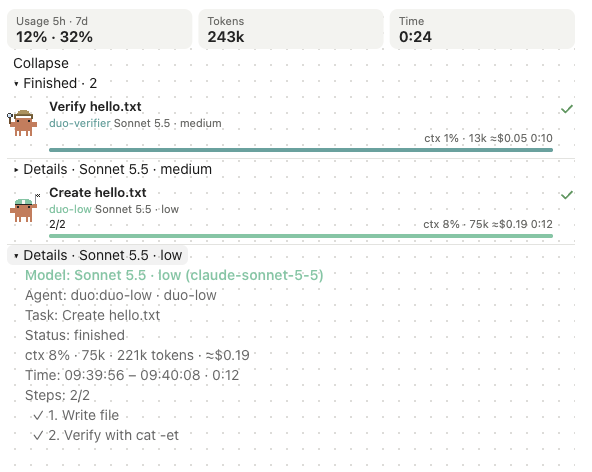
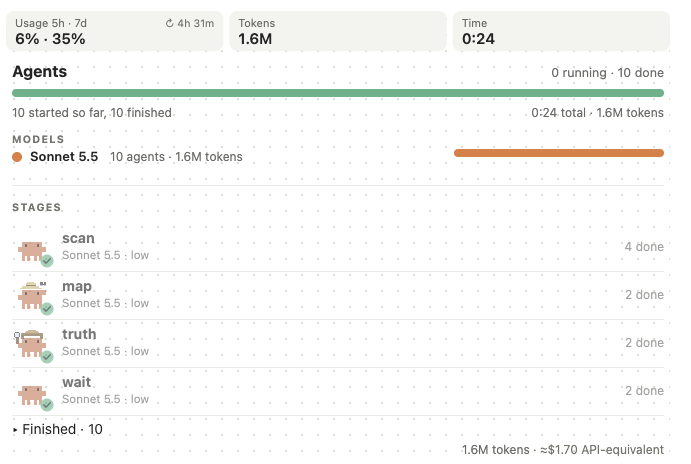
README: new panel screenshot (grouped view with the usage tile and its reset countdown)

diff --git a/README.md b/README.md
@@ -1,7 +1,7 @@
 # duo: see every AI agent Claude spawns for you
 
 <p align="center">
-  <img src="assets/duo-panel-real.png" alt="The agents panel after a real duo run: a Usage tile showing 12% of the 5-hour window and 32% of the weekly window, each task with the model and effort that ran it, and a Details view listing the steps the agent planned with the ones done" width="592">
+  <img src="assets/duo-panel-real.png" alt="The agents panel with ten agents: the Usage tile shows 6% of the 5-hour window and 35% of the weekly window with a countdown to the reset, then tokens and time; below, the model mix and one row per stage (scan, map, truth, wait), all done" width="691">
 </p>
 
 On a big job, Claude Code starts helper agents by itself. By default you can't see what they are doing, which model each one runs on, or what they cost you. **duo shows every one of them live**: its task, model, effort, steps and tokens, plus how much of your usage limit you have used. You don't create or steer the agents; you watch.
